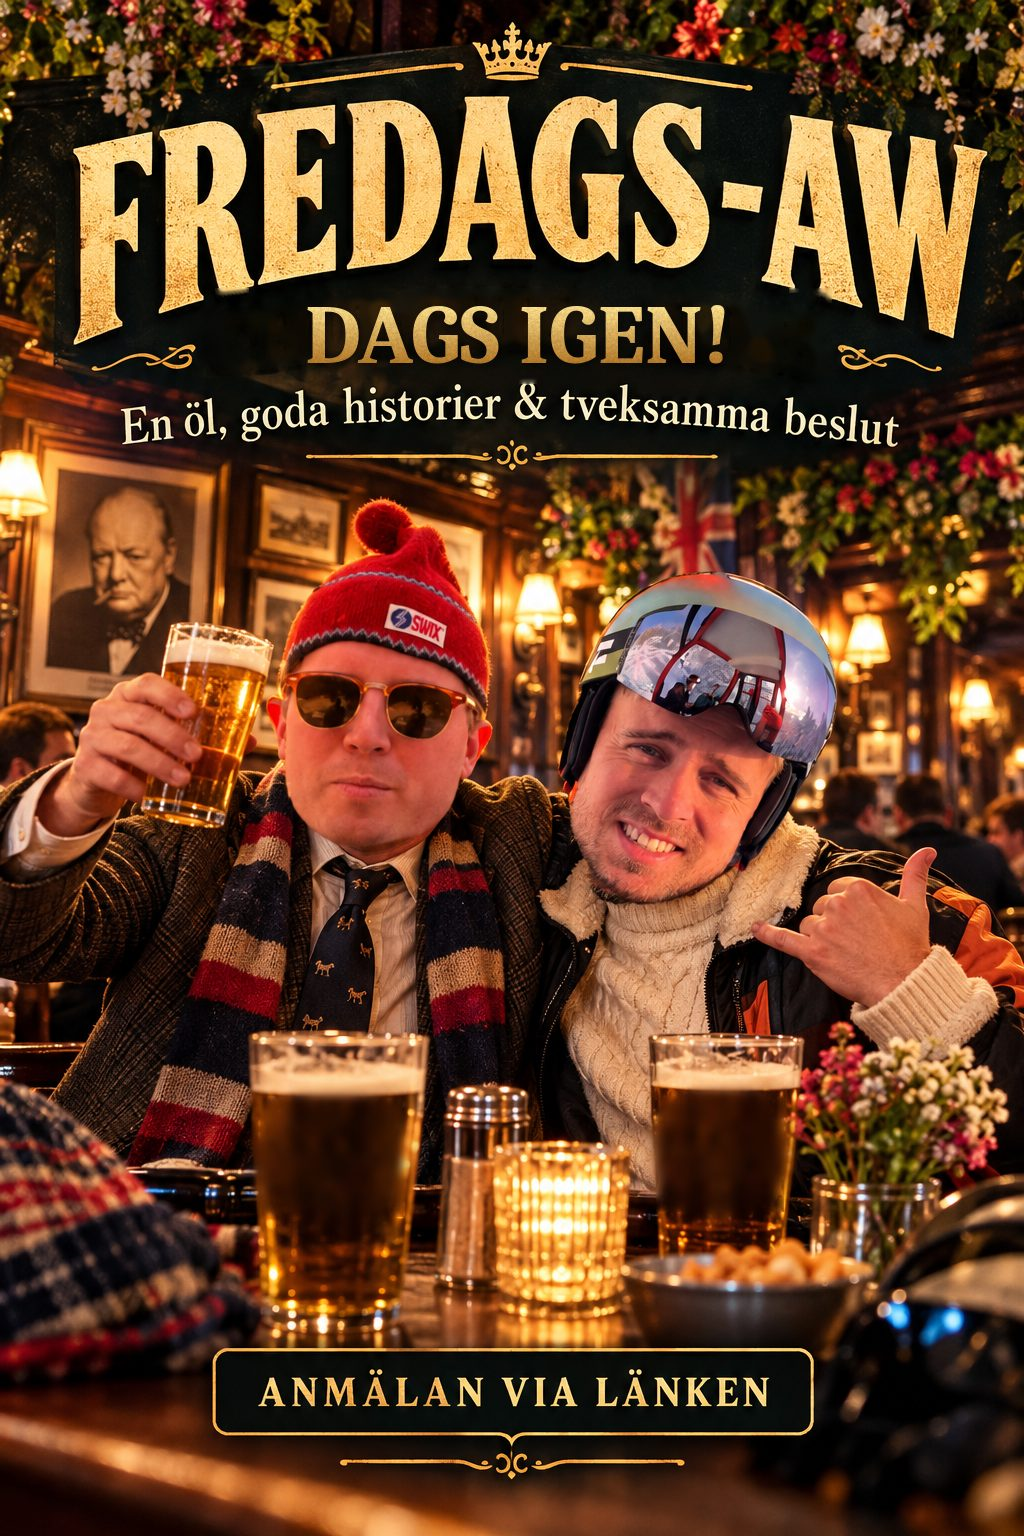
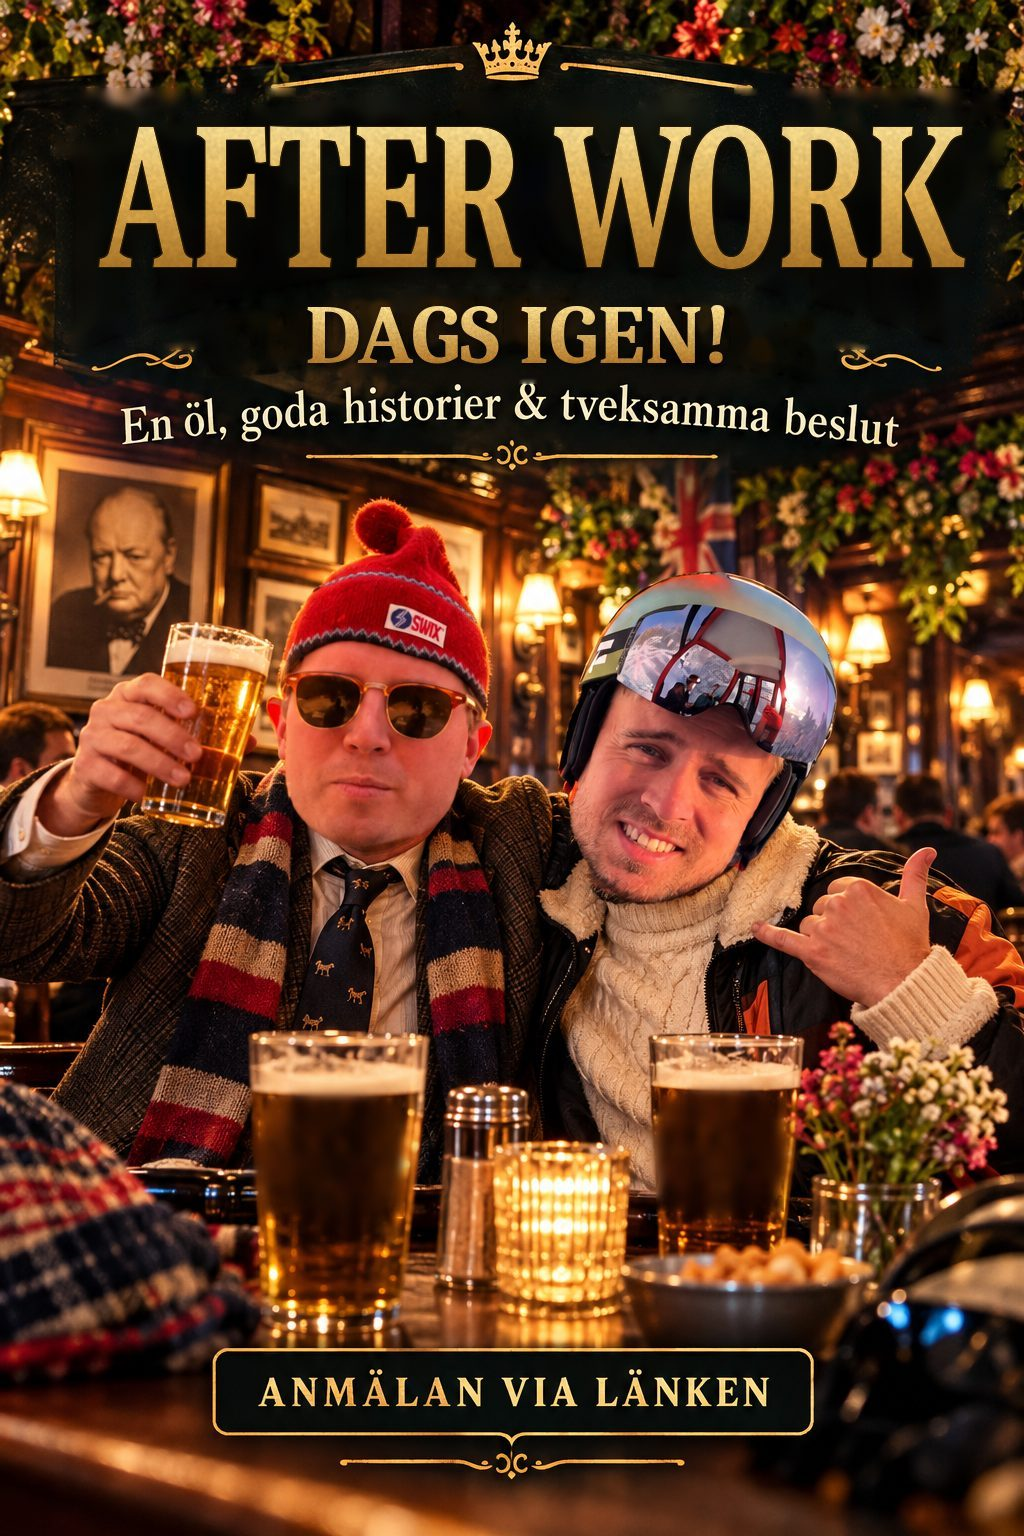
Generell AW-affisch, app-ikon och smidigare förslagskort
- Affischen säger "After work" i stället för "Fredags-AW"
- Manifest och ikoner så sidan kan läggas på hemskärmen
- Dela, Kalender (.ics) och Hitta hit på varje förslag
- Direktlänk till ett förslag, "Nytt"-märkning och räknare i fliktiteln

Claude-Session: https://claude.ai/code/session_01UVpAXaghGe9jg2Ky7Rmbgb

Changed region(s): [[0.0625, 0.0312, 1.0, 0.25]]

diff --git a/index.html b/index.html
@@ -9,6 +9,13 @@
 <meta property="og:description" content="Föreslå ett ställe och en tid, eller säg till vilka förslag som funkar för dig.">
 <meta property="og:image" content="aw-poster.jpg">
 <meta name="theme-color" content="#1f4d3a">
+<link rel="manifest" href="manifest.webmanifest">
+<link rel="icon" type="image/png" href="favicon.png">
+<link rel="apple-touch-icon" href="apple-touch-icon.png">
+<meta name="apple-mobile-web-app-capable" content="yes">
+<meta name="mobile-web-app-capable" content="yes">
+<meta name="apple-mobile-web-app-title" content="AW">
+<meta name="apple-mobile-web-app-status-bar-style" content="black-translucent">
 <link rel="preconnect" href="https://fonts.googleapis.com">
 <link rel="preconnect" href="https://fonts.gstatic.com" crossorigin>
 <link href="https://fonts.googleapis.com/css2?family=Oswald:wght@500;600;700&family=Source+Sans+3:wght@400;600;700&display=swap" rel="stylesheet">
@@ -179,9 +186,10 @@
   /* ---- Förslagskort ---- */
   .proposal { position: relative; }
   .proposal.leader { border: 2px solid var(--brass); }
+  .badges { display: flex; flex-wrap: wrap; gap: 6px; margin-bottom: 8px; }
+  .badges:not(:has(.badge:not([hidden]))) { display: none; }
   .badge {
     display: inline-block;
-    margin-bottom: 8px;
     padding: 2px 10px;
     border-radius: 999px;
     background: var(--brass);
@@ -191,6 +199,28 @@
     text-transform: uppercase;
   }
   @media (prefers-color-scheme: dark) { .badge { color: #1a1408; } }
+  .badge.new { background: var(--green); color: #fff; }
+  .proposal.flash { animation: flash 1.6s ease-out 1; }
+  @keyframes flash { 0%, 30% { box-shadow: 0 0 0 4px var(--brass), var(--shadow); } 100% { box-shadow: var(--shadow); } }
+
+  .actions { display: flex; flex-wrap: wrap; gap: 8px; margin-top: 16px; }
+  .action {
+    display: inline-flex;
+    align-items: center;
+    gap: 6px;
+    min-height: 40px;
+    padding: 6px 14px;
+    border-radius: 999px;
+    border: 1.5px solid var(--line);
+    background: transparent;
+    color: var(--ink);
+    font: 600 15px/1.2 "Source Sans 3", sans-serif;
+    text-decoration: none;
+    cursor: pointer;
+  }
+  .action:hover { border-color: var(--brass); }
+  .action:focus-visible { outline: 3px solid var(--brass); outline-offset: 2px; }
+  .action svg { width: 17px; height: 17px; flex: none; }
   .proposal h3 {
     margin: 0;
     font-size: 26px;
@@ -362,10 +392,10 @@
 <body>
 <main class="page">
   <img class="poster" src="aw-poster.jpg" width="1024" height="1536"
-       alt="Affisch: Fredags-AW – dags igen! En öl, goda historier och tveksamma beslut">
+       alt="Affisch: After work – dags igen! En öl, goda historier och tveksamma beslut">
 
   <header class="band">
-    <p class="eyebrow">After work · Stockholm</p>
+    <p class="eyebrow">After work</p>
     <h1>Nästa AW – var och när?</h1>
     <p>Föreslå ett ställe och en tid, eller säg till vilka förslag som funkar för dig.</p>
   </header>
@@ -499,6 +529,30 @@
   let busy = 0;
   let listSeq = 0;
   const cards = new Map(); // proposalId -> { root, refs }
+  const newIds = new Set();  // förslag som tillkommit sedan förra besöket
+  let firstLoad = true;
+  let unseenWhileHidden = 0;
+  const baseTitle = document.title;
+  const LAST_SEEN_KEY = "aw-sida-senast-sedd";
+  let lastSeen = 0;
+  try { lastSeen = Number(localStorage.getItem(LAST_SEEN_KEY)) || 0; } catch (e) {}
+  const ICONS = {
+    share: '<path d="M12 3v12M7 8l5-5 5 5M5 13v6a2 2 0 0 0 2 2h10a2 2 0 0 0 2-2v-6"/>',
+    cal: '<rect x="3" y="5" width="18" height="16" rx="2"/><path d="M3 10h18M8 3v4M16 3v4"/>',
+    map: '<path d="M12 22s7-6.2 7-12a7 7 0 0 0-14 0c0 5.8 7 12 7 12z"/><circle cx="12" cy="10" r="2.5"/>'
+  };
+  function icon(name) {
+    const svg = document.createElementNS("http://www.w3.org/2000/svg", "svg");
+    svg.setAttribute("viewBox", "0 0 24 24");
+    svg.setAttribute("fill", "none");
+    svg.setAttribute("stroke", "currentColor");
+    svg.setAttribute("stroke-width", "2");
+    svg.setAttribute("stroke-linecap", "round");
+    svg.setAttribute("stroke-linejoin", "round");
+    svg.setAttribute("aria-hidden", "true");
+    svg.innerHTML = ICONS[name]; // fasta ikoner, aldrig användardata
+    return svg;
+  }
 
   // ---------- API ----------
   class ApiError extends Error {
@@ -598,6 +652,46 @@
     t = wall - offsetAt(t);
     return new Date(t);
   }
+  function proposalUrl(p) { return location.origin + location.pathname + "#forslag-" + p.id; }
+
+  async function shareProposal(p, card) {
+    const url = proposalUrl(p);
+    const text = "AW-förslag: " + p.place + ", " + formatWhen(p.starts_at).toLowerCase() + ". Kommer du?";
+    if (navigator.share) {
+      try { await navigator.share({ title: "AW – " + p.place, text, url }); return; }
+      catch (e) { if (e && e.name === "AbortError") return; }
+    }
+    try {
+      await navigator.clipboard.writeText(text + " " + url);
+      showMsg(card.refs.msg, "Länken är kopierad – klistra in den i gruppchatten.", "ok");
+    } catch (e) {
+      window.prompt("Kopiera länken:", url);
+    }
+  }
+
+  function icsDate(ms) { return new Date(ms).toISOString().replace(/[-:]/g, "").replace(/\.\d{3}/, ""); }
+  function icsEscape(t) { return String(t).replace(/\\/g, "\\\\").replace(/[,;]/g, (m) => "\\" + m).replace(/\r?\n/g, "\\n"); }
+  function calendarHref(p) {
+    const start = new Date(p.starts_at).getTime();
+    const lines = [
+      "BEGIN:VCALENDAR", "VERSION:2.0", "PRODID:-//AW//SV", "CALSCALE:GREGORIAN", "METHOD:PUBLISH",
+      "BEGIN:VEVENT",
+      "UID:" + p.id + "@aw",
+      "DTSTAMP:" + icsDate(Date.now()),
+      "DTSTART:" + icsDate(start),
+      "DTEND:" + icsDate(start + 3 * 3600 * 1000),
+      "SUMMARY:" + icsEscape("AW: " + p.place),
+      "LOCATION:" + icsEscape(p.place),
+      "DESCRIPTION:" + icsEscape((p.note ? p.note + "\n\n" : "") + "Svara här: " + proposalUrl(p)),
+      "URL:" + proposalUrl(p),
+      "END:VEVENT", "END:VCALENDAR"
+    ];
+    return "data:text/calendar;charset=utf-8," + encodeURIComponent(lines.join("\r\n"));
+  }
+  function mapHref(p) {
+    return "https://www.google.com/maps/search/?api=1&query=" + encodeURIComponent(p.place + ", Stockholm");
+  }
+
   function isPast(p) { return new Date(p.starts_at).getTime() < Date.now() - PAST_AFTER_MS; }
 
   // ---------- Svar ----------
@@ -761,7 +855,10 @@
     const root = el("article", "card proposal");
     root.dataset.id = p.id;
     const refs = {};
+    const badges = el("div", "badges");
+    refs.newBadge = el("span", "badge new", "Nytt");
     refs.badge = el("span", "badge", "Flest kommer");
+    badges.append(refs.newBadge, refs.badge);
     refs.title = el("h3");
     refs.when = el("p", "when");
     refs.note = el("p", "note");
@@ -810,7 +907,21 @@
     refs.removeProposal.addEventListener("click", () => removeProposal(currentProposal(p.id), card));
     links.append(refs.removeRsvp, refs.removeProposal);
 
-    root.append(refs.badge, refs.title, refs.when, refs.note, refs.by, tally, choices, refs.msg, groupsWrap, links);
+    const actions = el("div", "actions");
+    const share = el("button", "action");
+    share.type = "button";
+    share.append(icon("share"), document.createTextNode("Dela"));
+    share.addEventListener("click", () => shareProposal(currentProposal(p.id), card));
+    refs.cal = el("a", "action");
+    refs.cal.append(icon("cal"), document.createTextNode("Kalender"));
+    refs.cal.download = "aw.ics";
+    refs.map = el("a", "action");
+    refs.map.append(icon("map"), document.createTextNode("Hitta hit"));
+    refs.map.target = "_blank";
+    refs.map.rel = "noopener";
+    actions.append(share, refs.cal, refs.map);
+
+    root.append(badges, refs.title, refs.when, refs.note, refs.by, tally, choices, refs.msg, groupsWrap, actions, links);
     const card = { root, refs, busy: false };
     return card;
   }
@@ -820,6 +931,11 @@
   function updateCard(card, p, rows, isLeader) {
     const { refs } = card;
     refs.badge.hidden = !isLeader;
+    refs.newBadge.hidden = !newIds.has(p.id);
+    card.root.id = "forslag-" + p.id;
+    refs.cal.href = calendarHref(p);
+    refs.cal.download = "AW " + p.place.replace(/[^\p{L}\p{N} ]+/gu, "").trim() + ".ics";
+    refs.map.href = mapHref(p);
     card.root.classList.toggle("leader", isLeader);
     refs.title.textContent = p.place;
     refs.when.textContent = formatWhen(p.starts_at);
@@ -913,6 +1029,38 @@
     });
   }
 
+  function trackNew(known) {
+    let fresh = 0;
+    proposals.forEach((p) => {
+      if (me.proposals.includes(p.id) || isPast(p)) return;
+      const isNew = firstLoad
+        ? lastSeen > 0 && new Date(p.created_at).getTime() > lastSeen
+        : !known.has(p.id);
+      if (isNew && !newIds.has(p.id)) { newIds.add(p.id); fresh++; }
+    });
+    if (!firstLoad && fresh && document.hidden) {
+      unseenWhileHidden += fresh;
+      document.title = "(" + unseenWhileHidden + ") Nytt förslag · " + baseTitle;
+    }
+    if (firstLoad) {
+      firstLoad = false;
+      focusFromHash();
+    }
+    try { localStorage.setItem(LAST_SEEN_KEY, String(Date.now())); } catch (e) {}
+  }
+
+  let hashHandled = false;
+  function focusFromHash() {
+    if (hashHandled || !location.hash.startsWith("#forslag-")) return;
+    hashHandled = true;
+    requestAnimationFrame(() => {
+      const card = document.getElementById(location.hash.slice(1));
+      if (!card) return;
+      card.scrollIntoView({ behavior: "smooth", block: "start" });
+      card.classList.add("flash");
+    });
+  }
+
   async function refresh() {
     if (!configured) return;
     const seq = ++listSeq;
@@ -923,8 +1071,10 @@
         api("rsvp?select=id,proposal_id,name,status,created_at&proposal_id=not.is.null&order=created_at.asc")
       ]);
       if (seq !== listSeq) return; // ett nyare anrop har startat
+      const known = new Set(proposals.map((p) => p.id));
       proposals = ps || [];
       rsvps = rs || [];
+      trackNew(known);
 
       if (!busy) {
         // Städa lokala referenser som inte längre finns (t.ex. borttagna i en annan flik)
@@ -1000,7 +1150,12 @@
   } else {
     refresh();
     setInterval(() => { if (!document.hidden && !busy) refresh(); }, REFRESH_MS);
-    document.addEventListener("visibilitychange", () => { if (!document.hidden) refresh(); });
+    document.addEventListener("visibilitychange", () => {
+      if (document.hidden) return;
+      unseenWhileHidden = 0;
+      document.title = baseTitle;
+      refresh();
+    });
   }
 </script>
 </body>

diff --git a/README.md b/README.md
@@ -45,7 +45,7 @@ Anon-/publishable-nyckeln är gjord för att synas publikt – skyddet ligger i 
 
 ## 3. Lägg ut på GitHub Pages
 
-1. Committa och pusha (`index.html`, `aw-poster.jpg`, `.nojekyll`) till GitHub.
+1. Committa och pusha alla filer (`index.html`, `aw-poster.jpg`, ikonerna, `manifest.webmanifest`, `.nojekyll`).
 2. I repot på GitHub: **Settings → Pages**. Under *Build and deployment*:
    **Source: Deploy from a branch**, **Branch: `master`**, mapp **`/ (root)`** → **Save**.
 3. Efter någon minut finns sidan på `https://<användarnamn>.github.io/<repo>/`.
@@ -57,7 +57,11 @@ Anon-/publishable-nyckeln är gjord för att synas publikt – skyddet ligger i 
 - Samma webbläsare kan ändra sina svar så många gånger den vill; byter man telefon/webbläsare
   blir det nya svar (de gamla kan då inte ändras därifrån).
 - Tider tolkas och visas alltid i svensk tid. Förslag flyttas till "Tidigare AW:er" 6 timmar efter start.
-- Förslaget med flest "kommer" får etiketten **Flest kommer**.
+- Förslaget med flest "kommer" får etiketten **Flest kommer**, och förslag som tillkommit sedan
+  ditt förra besök märks **Nytt**.
+- Varje förslag har knapparna **Dela** (delningsmenyn i mobilen, eller kopiera länk), **Kalender**
+  (.ics-fil) och **Hitta hit** (Google Maps). Delade länkar går direkt till förslaget.
+- Sidan kan läggas på hemskärmen som en app (Safari: Dela → Lägg till på hemskärmen).
 - Listan uppdateras var 10:e sekund (och direkt när man kommer tillbaka till fliken).
 - Namn sätts med `textContent`, så HTML i namn visas bara som text.
 
